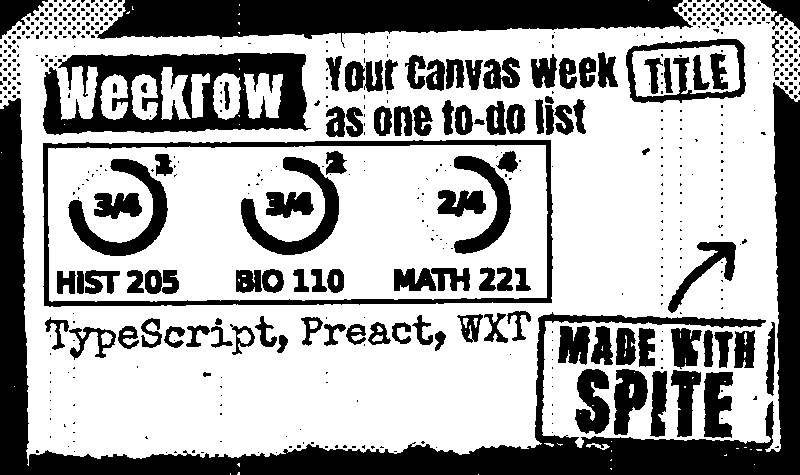
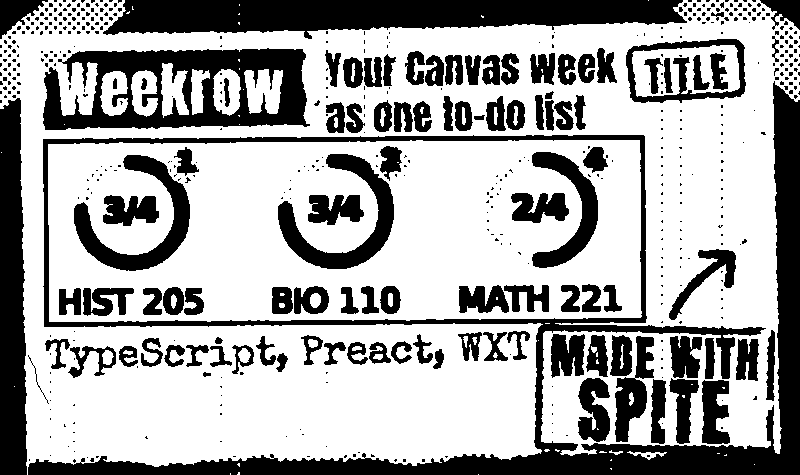
Make the stamp letters at least 40 px tall and keep the Weekrow ring labels near their earlier size

Changed region(s): [[0.0312, 0.0295, 0.9688, 1.0], [0.0312, 0.7958, 0.0625, 0.8547], [0.9062, 0.5895, 0.9375, 0.6189]]

diff --git a/generator/pages/card.css b/generator/pages/card.css
@@ -3,7 +3,7 @@
 body { width: 800px; }
 #page { width: 800px; height: 475px; }
 
-#sheet { position: absolute; left: 22px; top: 30px; width: 756px; height: 432px; padding: 20px 22px 0; transform: rotate(var(--tilt, -0.8deg)); }
+#sheet { position: absolute; left: 22px; top: 26px; width: 756px; height: 444px; padding: 20px 22px 0; transform: rotate(var(--tilt, -0.8deg)); }
 .main { display: flex; gap: 24px; align-items: flex-start; }
 
 .shot { position: relative; flex: none; width: 360px; height: 312px; overflow: hidden; background: #fff; border: 5px solid #000; transform: rotate(var(--shot-tilt, 0.5deg)); }
@@ -22,6 +22,6 @@ body { width: 800px; }
 #open svg { flex: none; overflow: visible; }
 
 /* Rubber stamp "Made with SPITE" at the lower right of the sheet; each card turns and places it a little differently. */
-#made { position: absolute; z-index: 3; padding: 7px 14px 6px; border-width: 7px; border-radius: 8px; font-family: "Anton", sans-serif; font-weight: normal; line-height: 1; text-align: center; -webkit-text-stroke: 1.6px #000; }
-#made span { display: block; font-size: 41px; line-height: 33px; letter-spacing: 3px; margin-right: -3px; }
-#made b { display: block; margin-top: 11px; font-size: 74px; line-height: 58px; font-weight: normal; letter-spacing: 3px; margin-right: -3px; }
+#made { position: absolute; z-index: 3; padding: 6px 8px 5px; border-width: 7px; border-radius: 8px; font-family: "Anton", sans-serif; font-weight: normal; line-height: 1; text-align: center; -webkit-text-stroke: 1.2px #000; }
+#made span { display: block; font-size: 46px; line-height: 38px; letter-spacing: 2px; margin-right: -2px; }
+#made b { display: block; margin-top: 7px; font-size: 72px; line-height: 56px; font-weight: normal; letter-spacing: 3px; margin-right: -3px; }

diff --git a/generator/pages/card-weekrow.html b/generator/pages/card-weekrow.html
@@ -7,11 +7,11 @@
 <link rel="stylesheet" href="card.css">
 <style>
   /* This card is wide: the name and caption sit in a row on top, and the ring row of the screenshot runs under them across the sheet. */
-  .main { display: block; position: relative; height: 255px; }
+  .main { display: block; position: relative; height: 278px; }
   .side { position: static; height: 86px; display: flex; align-items: flex-start; gap: 14px; }
   #name { margin: 0 0 0 -10px; flex: none; }
   #caption { margin-top: 0; }
-  .shot { position: absolute; left: 0; top: 90px; width: 508px; height: 163px; }
+  .shot { position: absolute; left: 0; top: 90px; width: 602px; height: 188px; }
   #open { right: 34px; bottom: 140px; }
   #open svg { width: 80px; height: 80px; }
   #open span { display: none; }
@@ -42,11 +42,11 @@
   card.start({
     seed: 421,
     tilt: -0.9,
-    stamp: { rot: 2.5, right: 6, bottom: 12 },
+    stamp: { rot: 2, right: 6, bottom: 14 },
     setup: () => {
       const img = document.getElementById('img');
       // The crop keeps the three rings (HIST 205, BIO 110, MATH 221) and drops the week header and the This week row.
-      card.crop(img, { sx: 32, sy: 186, sw: 400, fullWidth: 1280, boxWidth: 498 });
+      card.crop(img, { sx: 32, sy: 187, sw: 400, fullWidth: 1280, boxWidth: 592 });
       document.querySelector('.shot').setAttribute('data-soft', '');
       document.getElementById('sheet').appendChild(document.getElementById('open'));
     },

diff --git a/generator/pages/card-songranking.html b/generator/pages/card-songranking.html
@@ -7,7 +7,7 @@
 <link rel="stylesheet" href="card.css">
 <style>
   .shot { background: #5c5c5c; }
-  #open { bottom: 28px; }
+  #open { bottom: 32px; }
   .bar { position: absolute; left: 0; width: 350px; height: 92px; overflow: hidden; }
   .bar img { filter: url(#bars); }
 </style>
@@ -38,7 +38,7 @@
     seed: 431,
     tilt: -0.7,
     shotTilt: 0.4,
-    stamp: { rot: -3, right: 12, bottom: 12 },
+    stamp: { rot: -3, right: 12, bottom: 16 },
     setup: () => {
       document.querySelectorAll('.bar img').forEach((img) => card.crop(img, { sx: 0, sy: 1182, sw: 1130, fullWidth: 2560, boxWidth: 350 }));
     },
